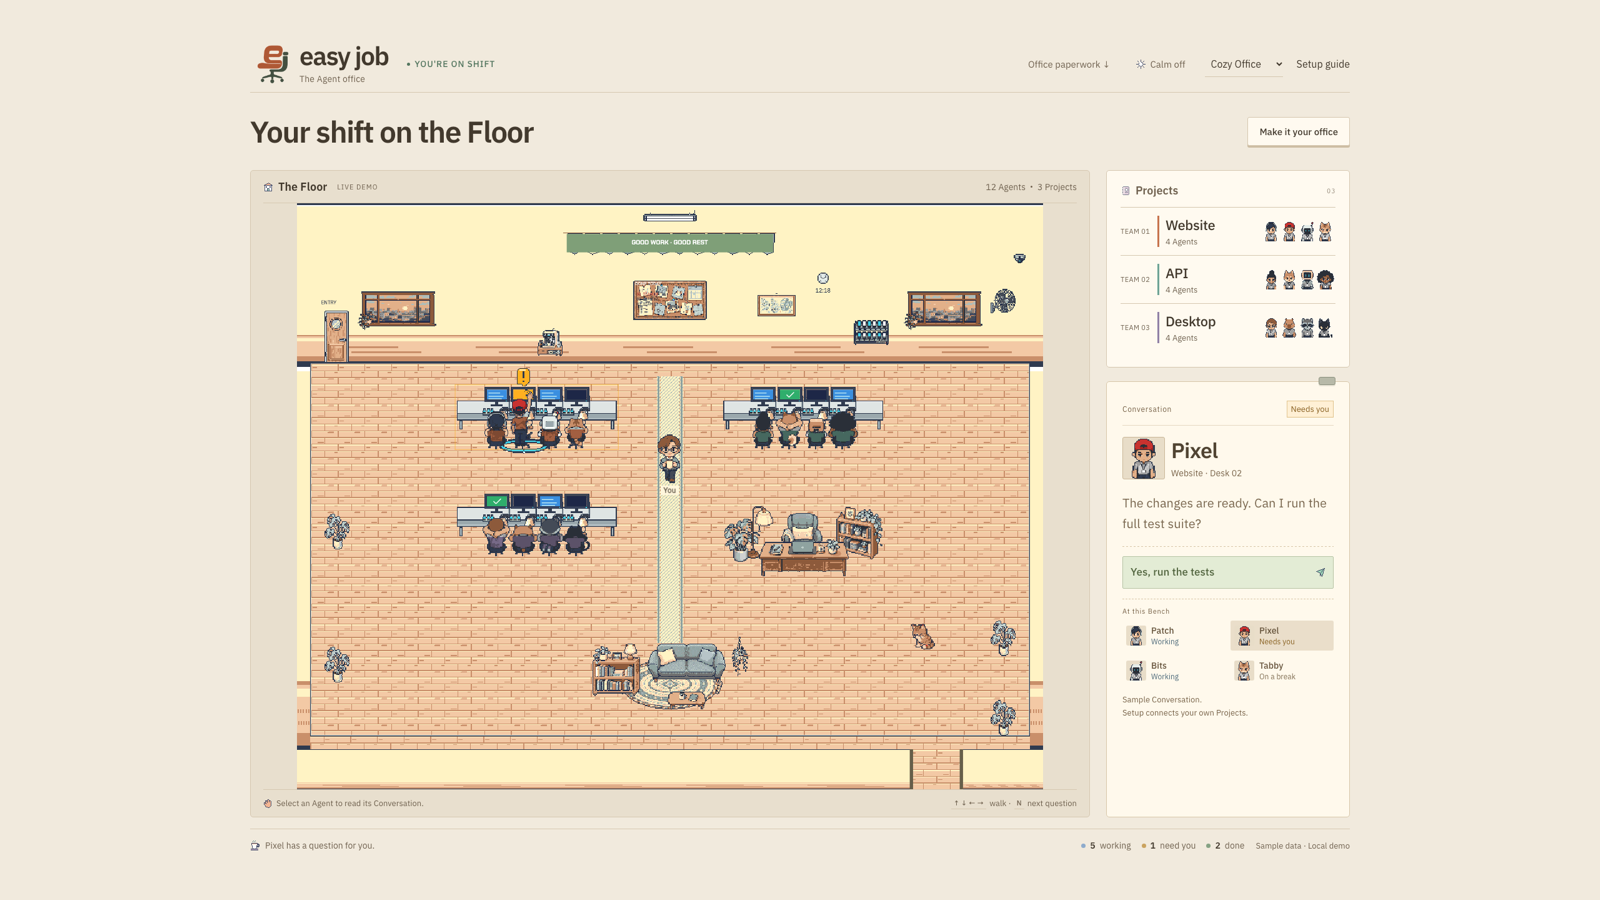
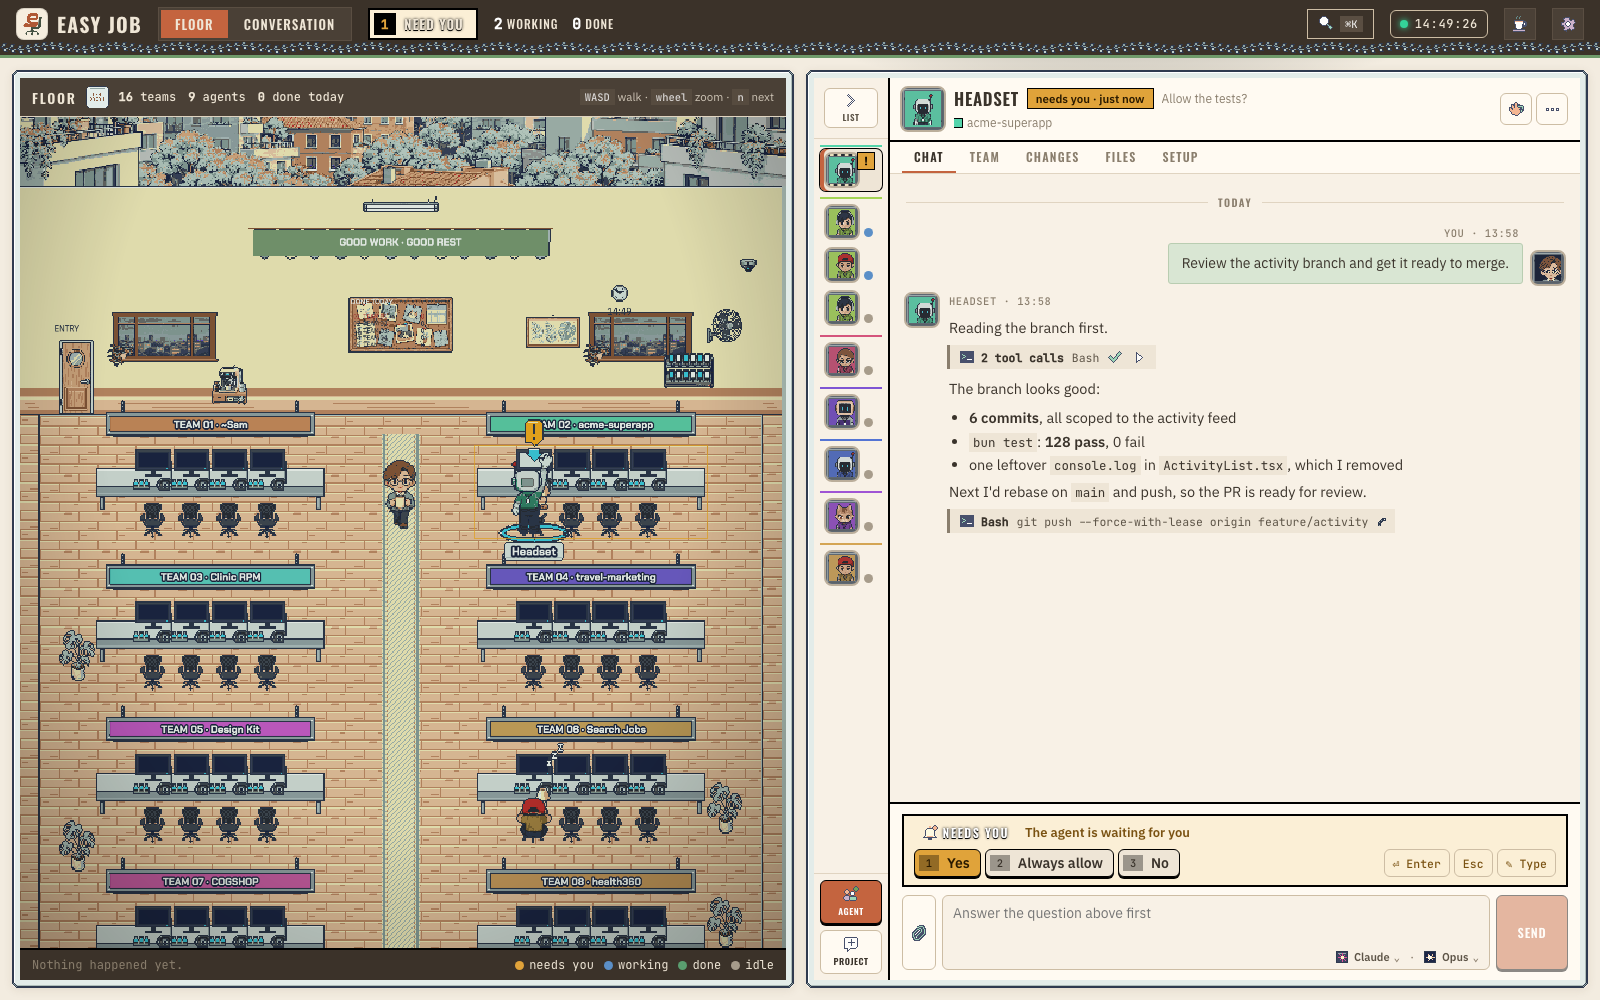
Easy Job 0.1.1 (d3f42a6)

diff --git a/README.md b/README.md
@@ -15,7 +15,7 @@ nothing to show.
 
 ## What Easy Job adds
 
-![The Floor: three Projects at their Benches, the Boss in the aisle, and a Conversation open beside it](docs/readme/floor.png)
+![The Floor in the Cozy Office theme: teams at their Benches, one agent raising a hand, and its chat open beside it with the question to answer](docs/readme/floor.png)
 
 - Each Orcha workspace is a team at a Bench; each agent sits at a Desk.
 - A raised hand means an agent has a question. Click it, read the question, answer from the page.
@@ -24,6 +24,10 @@ nothing to show.
   (it asks first).
 
 It runs only on your machine: 127.0.0.1, a token per run, no account, no telemetry.
+
+Two looks: Cozy Office, above, and Compound, below. Calm mode stills the motion and sound in either.
+
+![The same office in the Compound theme](docs/readme/compound.png)
 
 ## Install
 
